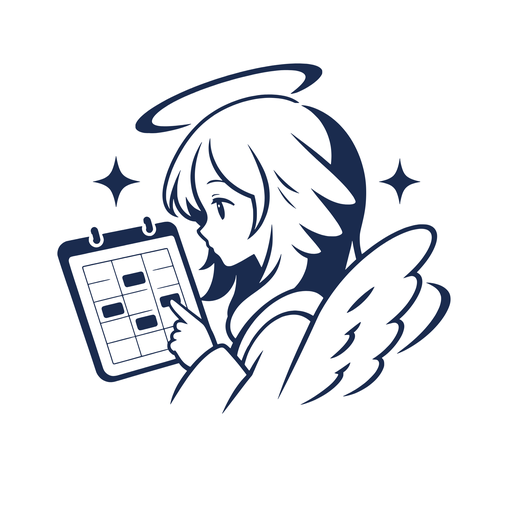
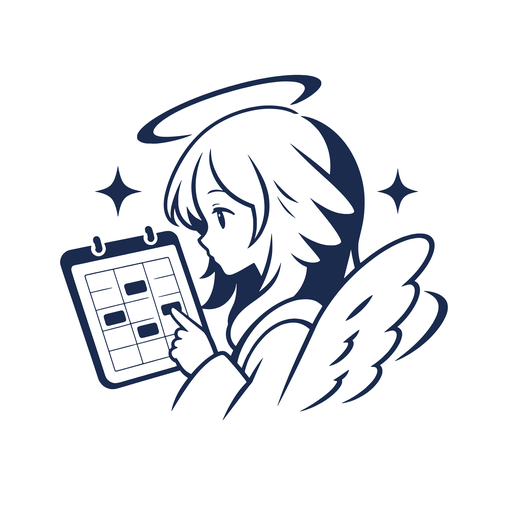
Android のアイコンの絵を少し下げる
外接円の中心で合わせた位置では上の余白が狭く、絵が上に寄って見えた。上下の
余白の差を半分に詰める位置まで下げる。絵は安全領域の内側に保つ。

Claude-Session: https://claude.ai/code/session_01LVYbnMJKivgk9MHBSmTNjz

Changed region(s): [[0.0938, 0.125, 0.9062, 0.8125], [0.75, 0.3125, 0.8125, 0.4062]]

diff --git a/frontend/app/manifest.ts b/frontend/app/manifest.ts
@@ -15,6 +15,8 @@ import { SERVICE_NAME, SITE_DESCRIPTION, SITE_TITLE } from "@/lib/site";
  * Android はこの画像を丸などに切り抜き、見える範囲は画像の幅の 9 割ほどになる。
  * 以前は絵が中心から 32% までしか届かず、ほかのアプリより小さく見えていた。
  * 描き直すときは `public/logo.svg` から作り、絵の外接円の半径を幅の 0.39 にする。
+ * 外接円の中心を画像の中心に合わせると、上の輪が円を広げるぶん絵が上に寄って見えるので、
+ * 輪と翼の上下の余白の差を半分に詰める位置まで下げている(半径 0.39 は保つ)。
  * iPhone はマニフェストではなく `app/apple-icon.png` を使い、角丸の四角に切り抜く。
  */
 export default function manifest(): MetadataRoute.Manifest {
